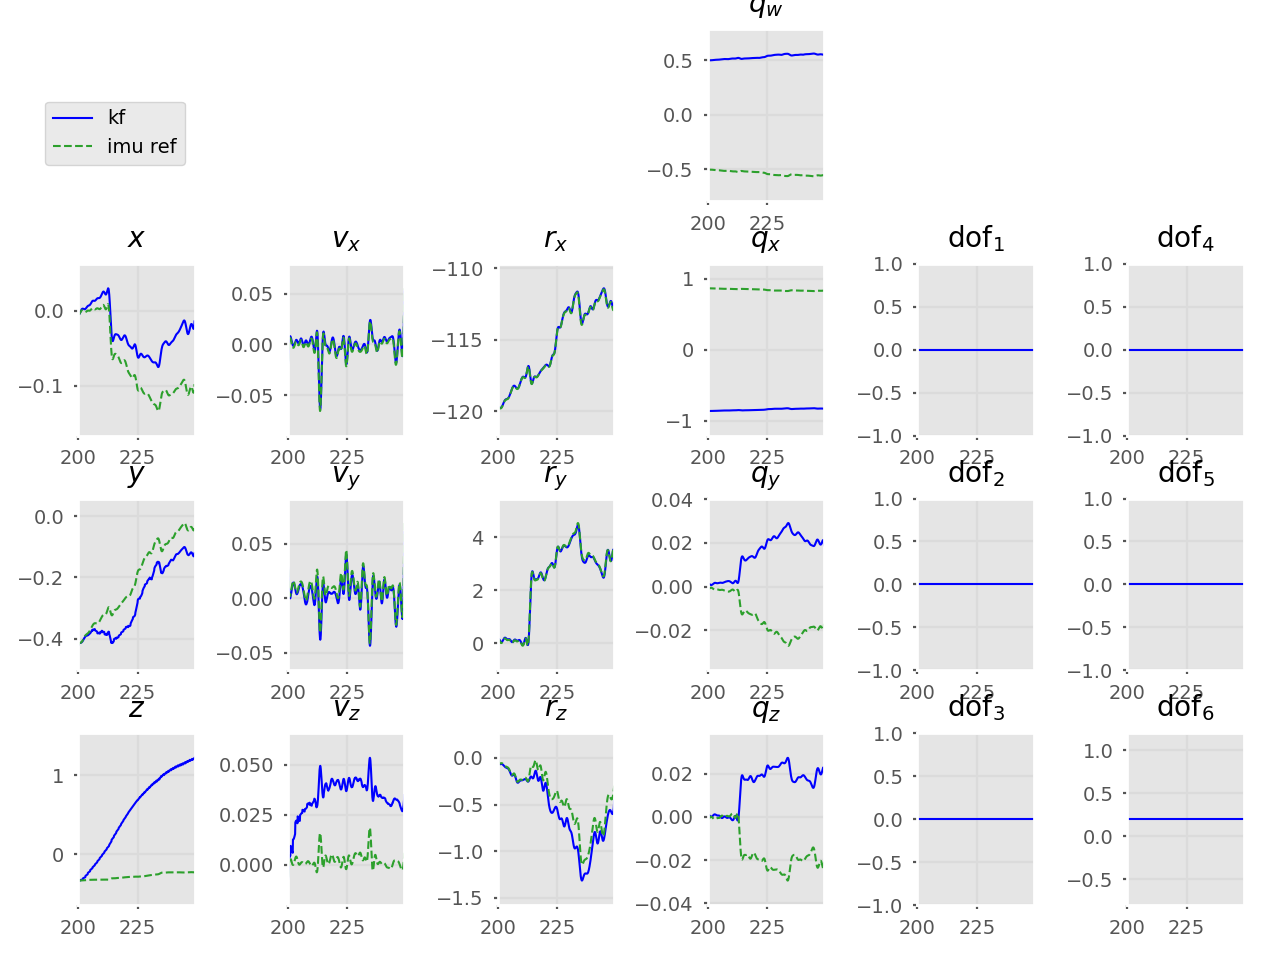
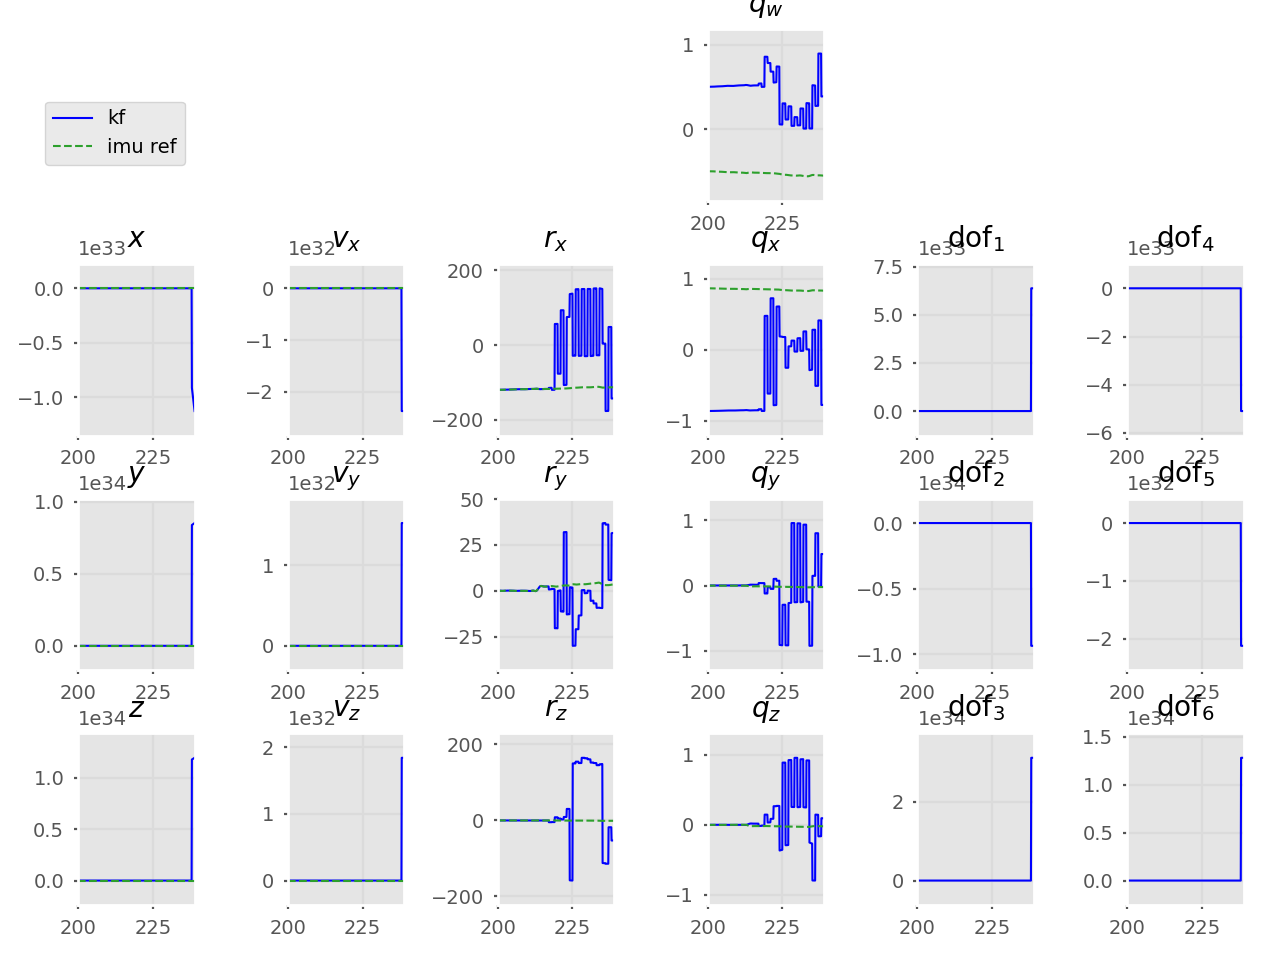
updated plots/readme

diff --git a/readme.md b/readme.md
@@ -12,12 +12,13 @@ python3 main.py <prop/update> nonoise
 ### Simple trajectory
 Camera moves in x direction, no rotations.
 
-Propagation only | Propagation + Update
---- | ---
-&nbsp;  | `R_p = 1e3`  
-&nbsp;  | `R_q = 0.05` 
-![](img/kf_transx_prop_imu.png) | ![](img/kf_transx_upd_Rp1000.0_Rq0.05_imu.png)
-![](img/kf_transx_prop_cam.png) | ![](img/kf_transx_upd_Rp1000.0_Rq0.05_cam.png)
+P only  | P + U | P + U 
+---     | ---   | ---   
+&nbsp;  | `stdev_a, stdev_om = 1e-3`  | `stdev_a, stdev_om = 1e-3` 
+&nbsp;  | **`cov_p = 1000`** | **`cov_p = 0.1`**
+&nbsp;  | `cov_q = 0.05` | `cov_q = 0.05` 
+![](img/kf_transx_prop_imu.png) | ![](img/kf_transx_upd_Rp1000.0_Rq0.05_imu.png) | ![](img/kf_transx_upd_Rp0.1_Rq0.05_imu.png)
+![](img/kf_transx_prop_cam.png) | ![](img/kf_transx_upd_Rp1000.0_Rq0.05_cam.png) | ![](img/kf_transx_upd_Rp0.1_Rq0.05_cam.png)
 
 ### Monocular SLAM trajectory
 P only  | P + U | P + U | P + U
